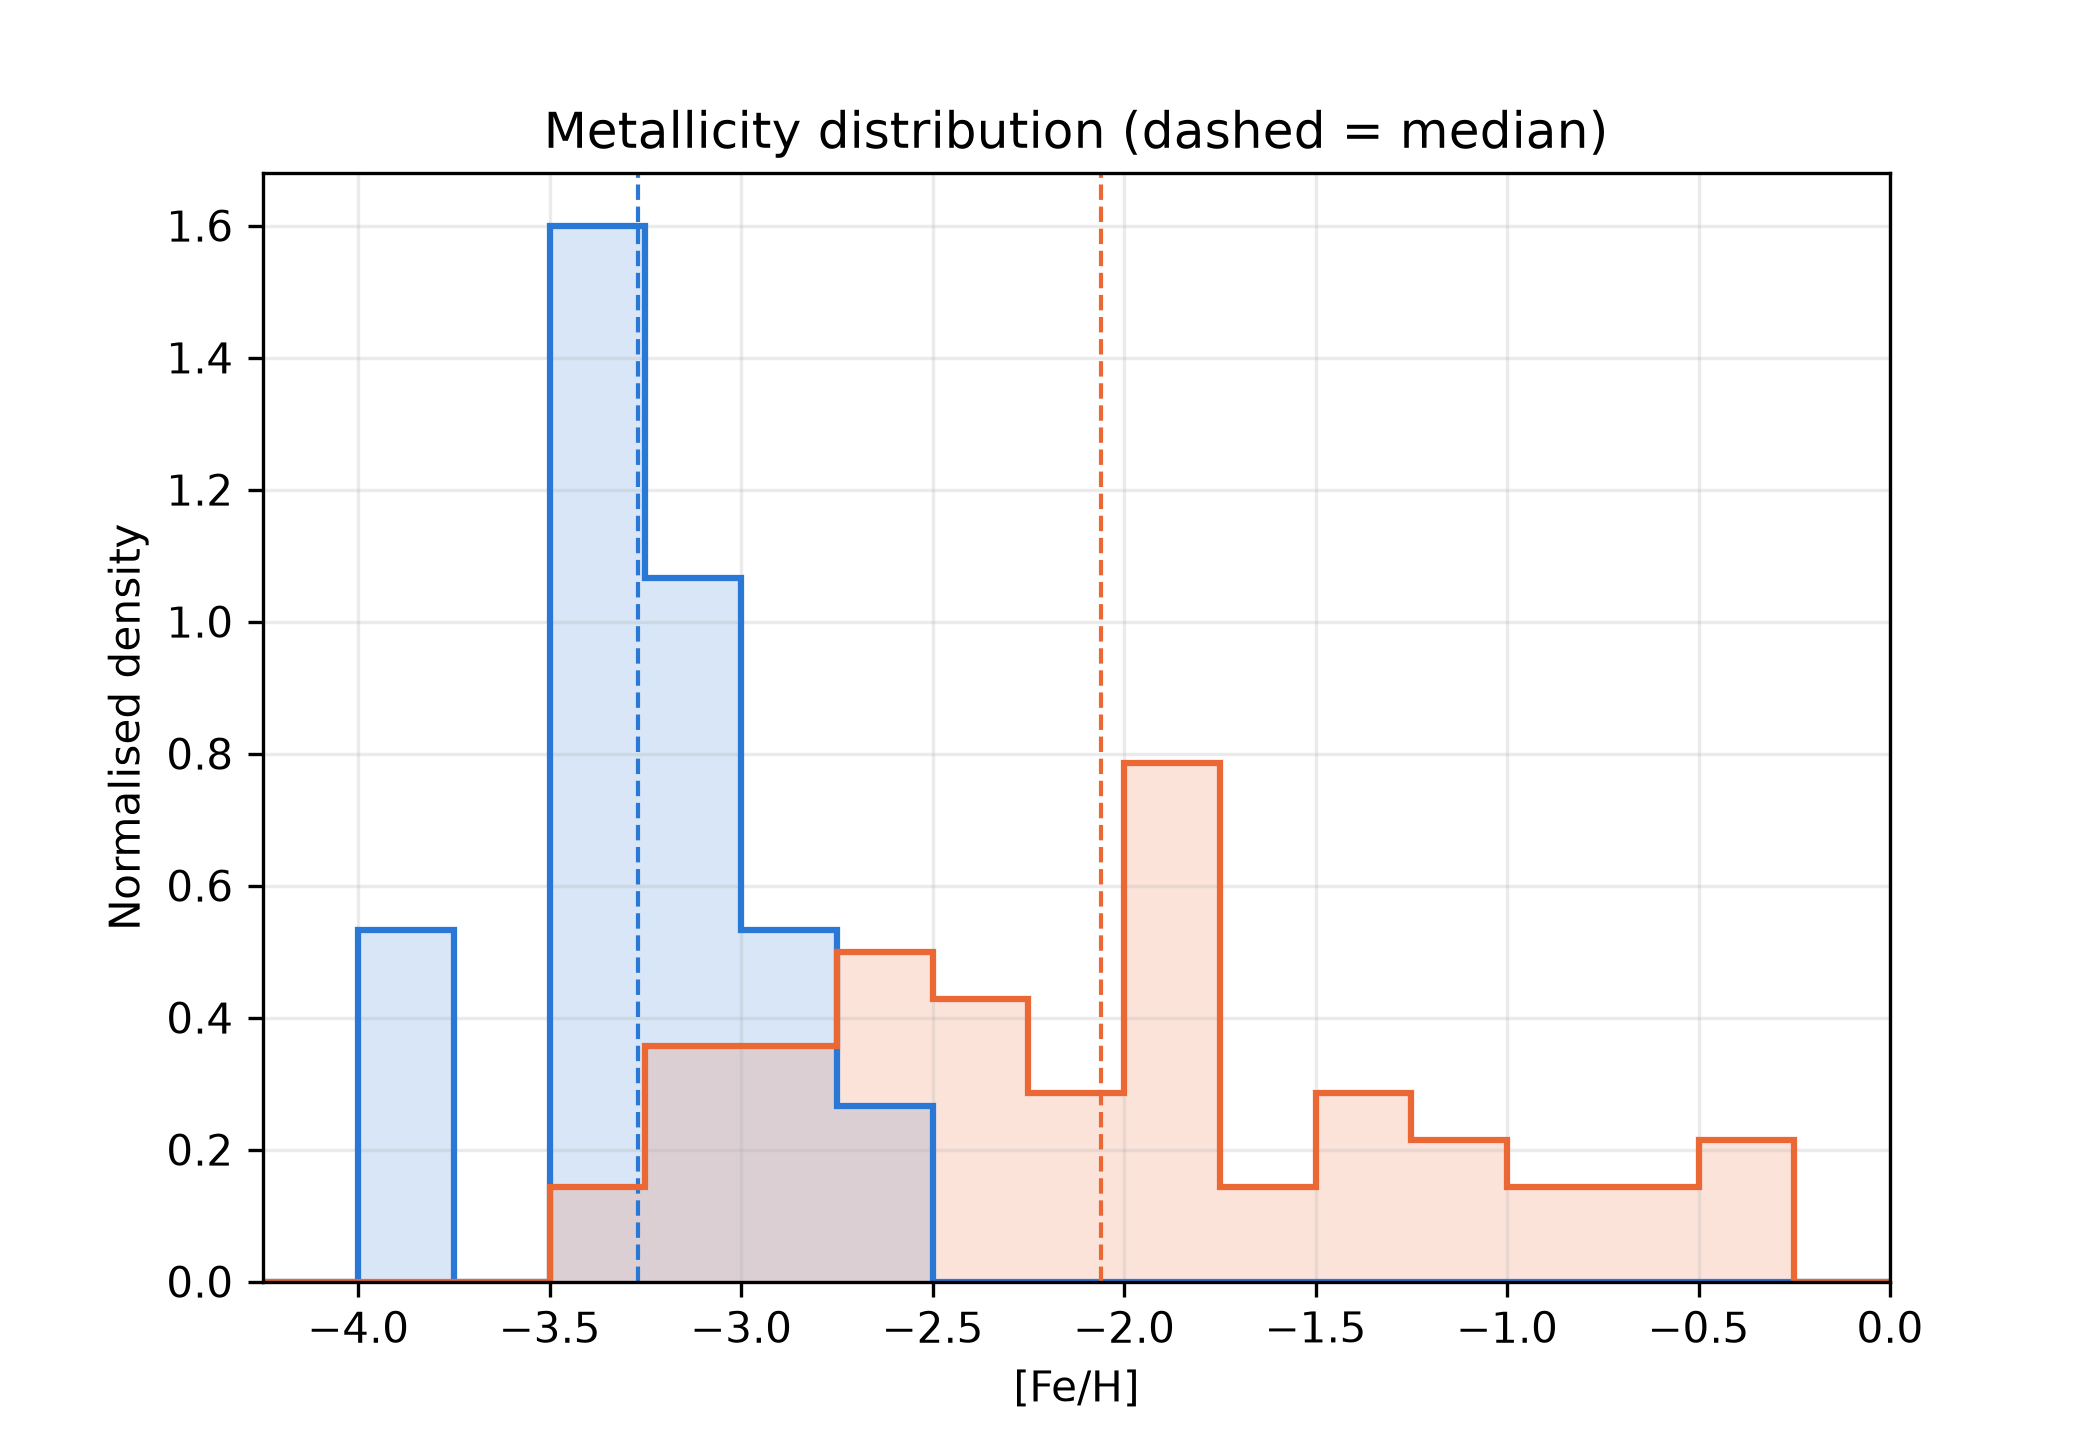
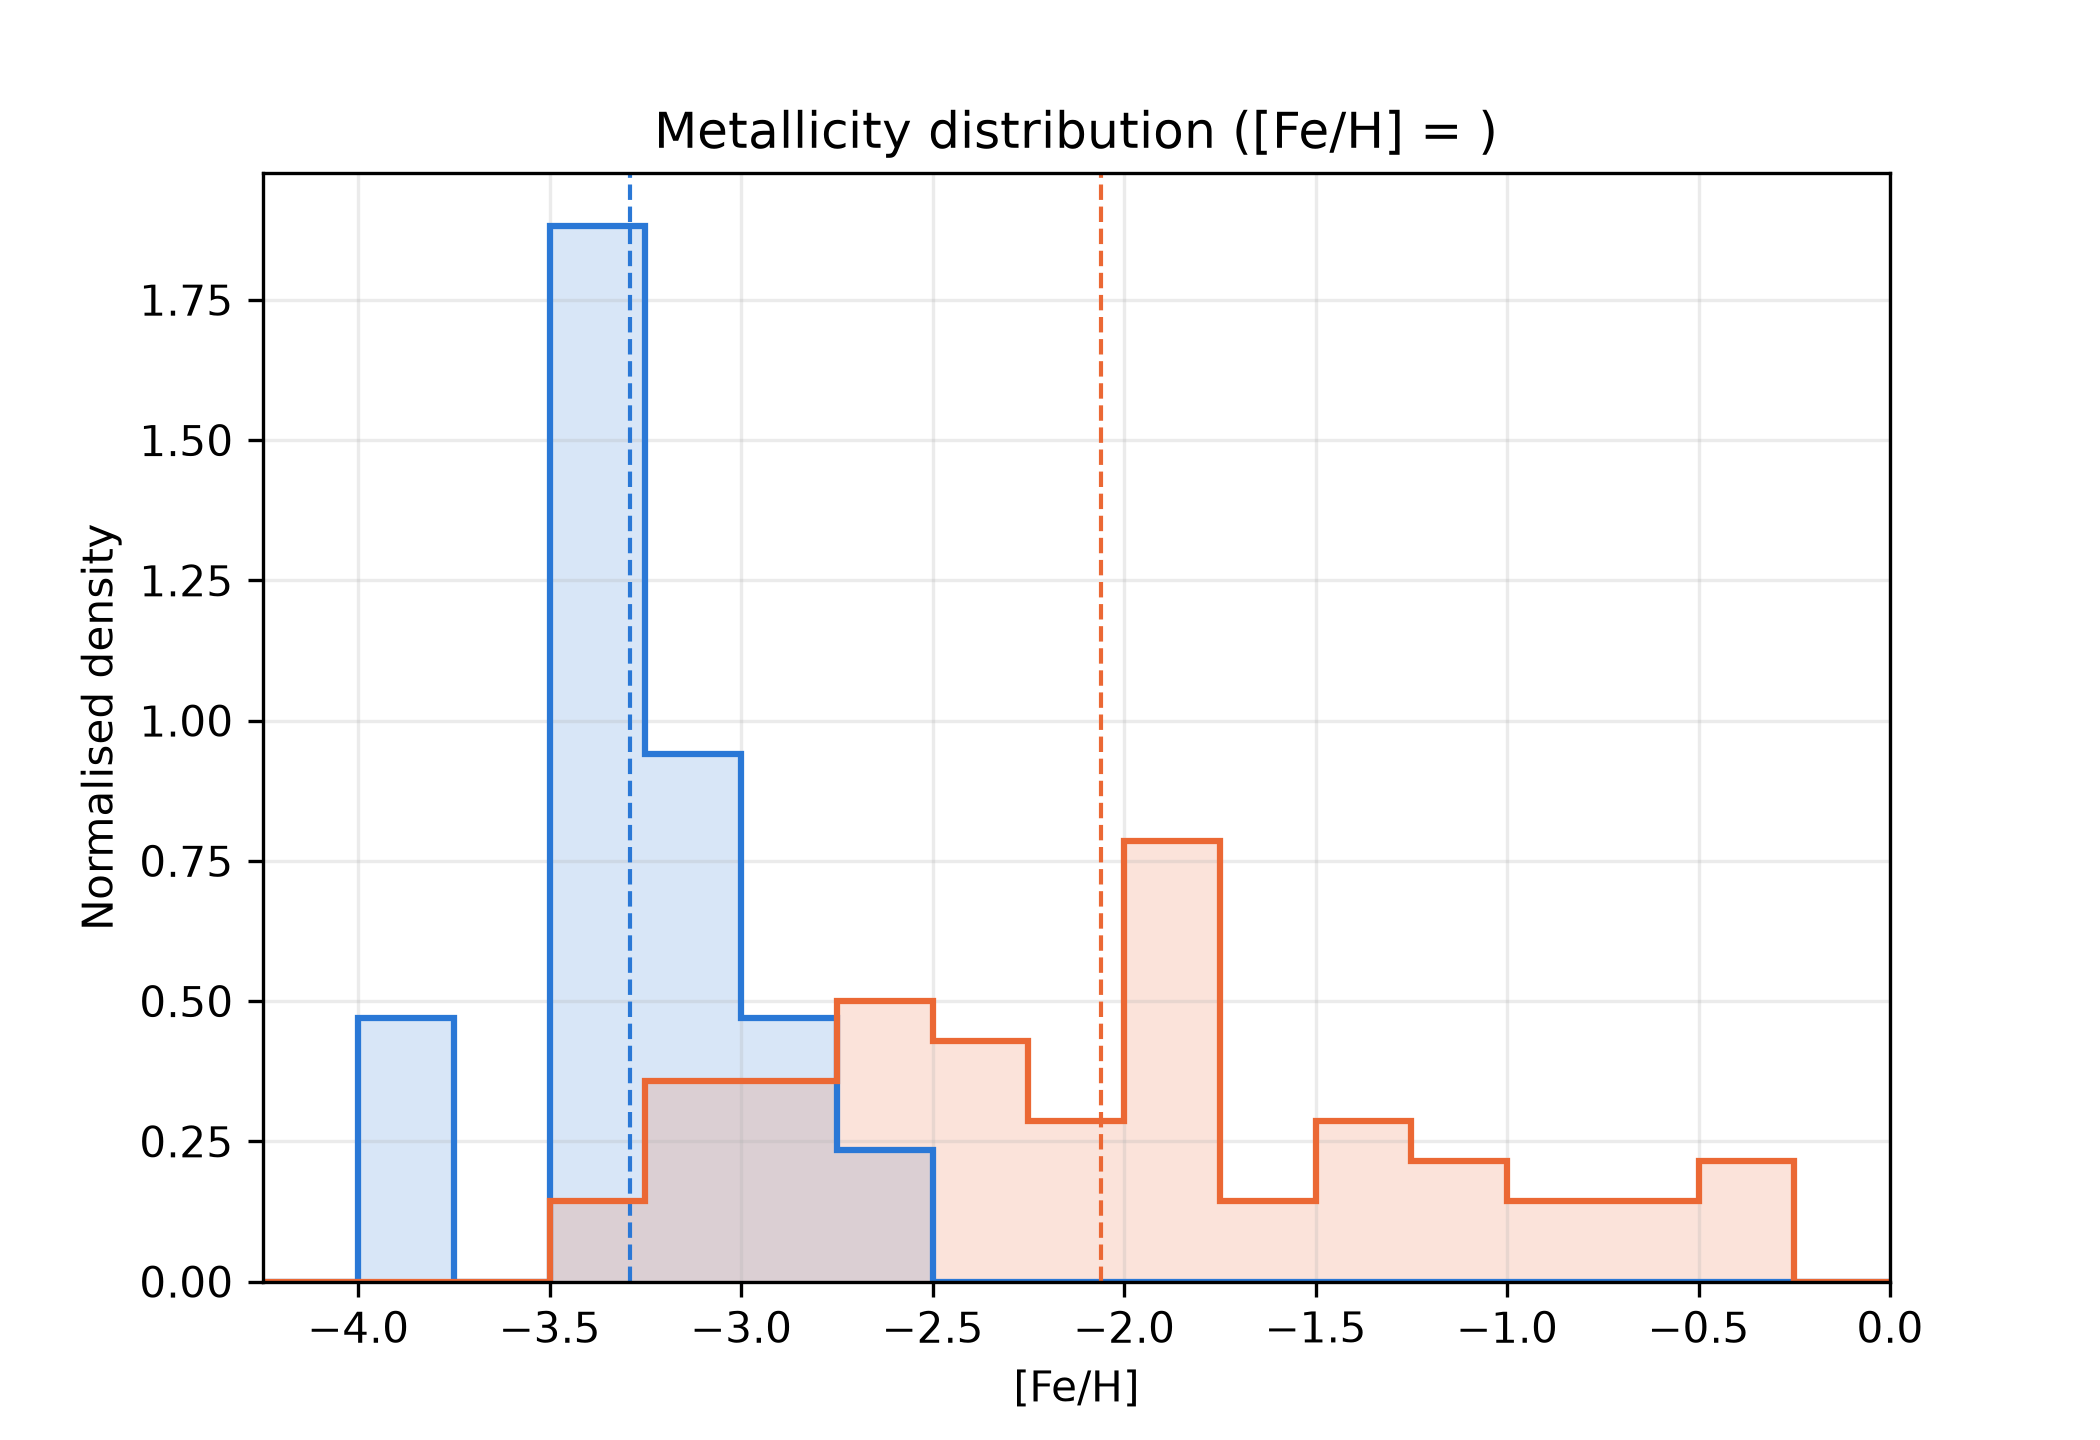
metallicity dispersion, stream width and distribution

diff --git a/Pypeline/stream_width.py b/Pypeline/stream_width.py
@@ -1,0 +1,135 @@
+import numpy as np
+import matplotlib.pyplot as plt
+import pandas as pd
+from astropy.coordinates import SkyCoord
+from astropy import units as u
+from helper import Filenames
+import gala.coordinates as gc
+
+## Read in both streams
+data = pd.read_csv(Filenames.C19_STREAM)
+df = pd.read_csv(Filenames.PHEONIX_STREAM)
+
+## Distances to turn the width from degrees into pc
+ph_dist = 17.5      # kpc, Shipp et al. 2018
+c19_dist = 20.1     # kpc, median distance of the C-19 members
+
+
+## Stream frames (same as coordinate_transform.py)
+# https://iopscience.iop.org/article/10.3847/1538-4357/aacdab
+icrsc__phoenix_coords = SkyCoord(ra = 311.2 * u.deg, dec = 14 * u.deg)
+pole = SkyCoord(ra=icrsc__phoenix_coords.icrs.ra, dec=icrsc__phoenix_coords.icrs.dec, frame='icrs')
+iscrsc_c19_coords = SkyCoord(ra = 81.45 * u.degree, dec = -6.346 * u.degree, frame = "icrs")
+
+average_ra0 = np.mean(df['ra'])
+average_ra0_c19 = np.median(data['RAICRS'])
+
+frame = gc.GreatCircleICRSFrame.from_pole_ra0(pole=pole, ra0 = average_ra0 * u.deg)
+frame2 = gc.GreatCircleICRSFrame.from_pole_ra0(pole=iscrsc_c19_coords, ra0 = average_ra0_c19 * u.deg)
+
+PH_coords = SkyCoord(ra=df['ra'], dec=df['dec'], unit='deg', frame='icrs')
+C19_coords = SkyCoord(ra=data['RAICRS'], dec=data['DEICRS'], unit='deg', frame='icrs')
+
+ph_stream = PH_coords.transform_to(frame)
+c19_stream = C19_coords.transform_to(frame2)
+
+df['phi1'] = ph_stream.phi1.wrap_at(180 * u.degree).deg
+df['phi2'] = ph_stream.phi2.deg
+data['phi1'] = c19_stream.phi1.wrap_at(180 * u.degree).deg
+data['phi2'] = c19_stream.phi2.deg
+
+
+
+## Picking the stream stars
+
+
+## Phoenix: the field stars have very different velocities, so keep stars within
+## 50 km/s of the median, fit the velocity trend, then drop anything more than
+## 3 standard deviations from the fit (repeat a few times)
+ph = df[np.abs(df['vel_calib'] - np.median(df['vel_calib'])) < 50]
+for i in range(5):
+    fit = np.polyfit(ph['phi1'], ph['vel_calib'], 1)
+    resid = ph['vel_calib'] - np.polyval(fit, ph['phi1'])
+    ph = ph[np.abs(resid) < 3 * np.std(resid)]
+
+## C-19: only the confirmed members (they have a 'note'; the stars without one aren't
+## in the member list), and only the main part of the stream (within 3 deg)
+c19 = data[data['note'].notna() & (np.abs(data['phi2']) < 3)]
+
+## For velocities only use the members with spectra (GRACES / OSIRIS / UVES)
+spec = c19['note'].str.contains('GRACES|OSIRIS|UVES')
+c19_rv = c19[spec].dropna(subset=['Vlos'])
+
+
+
+## Stream width: fit phi2 vs phi1, width = spread of stars around the fit
+
+ph_track = np.polyfit(ph['phi1'], ph['phi2'], 2)
+ph_width = np.std(ph['phi2'] - np.polyval(ph_track, ph['phi1']))
+
+c19_track = np.polyfit(c19['phi1'], c19['phi2'], 1)
+c19_width = np.std(c19['phi2'] - np.polyval(c19_track, c19['phi1']))
+
+
+
+## Velocity dispersion: fit RV vs phi1, dispersion = spread of stars around the fit
+
+ph_vfit = np.polyfit(ph['phi1'], ph['vel_calib'], 1)
+ph_disp = np.std(ph['vel_calib'] - np.polyval(ph_vfit, ph['phi1']))
+
+## C-19 velocities only cover ~9 deg and there's no real gradient, so just fit the mean (deg 0)
+c19_vfit = np.polyfit(c19_rv['phi1'], c19_rv['Vlos'], 0)
+c19_disp = np.std(c19_rv['Vlos'] - np.polyval(c19_vfit, c19_rv['phi1']))
+
+
+print("Phoenix:  N =", len(ph))
+print(f"  width = {ph_width:.3f} deg = {np.radians(ph_width) * ph_dist * 1000:.0f} pc")
+print(f"  velocity dispersion = {ph_disp:.2f} km/s")
+print("C-19:  N =", len(c19), " (with velocities:", len(c19_rv), ")")
+print(f"  width = {c19_width:.3f} deg = {np.radians(c19_width) * c19_dist * 1000:.0f} pc  (d = {c19_dist:.1f} kpc)")
+print(f"  velocity dispersion = {c19_disp:.2f} km/s")
+
+
+
+## Plotting shennigans
+
+c19_color = '#2a78d6'
+ph_color = '#eb6834'
+
+fig = plt.figure(figsize=(11, 7), constrained_layout=True)
+ax0 = fig.add_subplot(221)
+ax1 = fig.add_subplot(222)
+ax2 = fig.add_subplot(223)
+ax3 = fig.add_subplot(224)
+
+x = np.linspace(ph['phi1'].min(), ph['phi1'].max(), 200)
+ax0.scatter(ph['phi1'], ph['phi2'], s=20, color=ph_color)
+ax0.plot(x, np.polyval(ph_track, x), 'k--')
+ax0.set_ylabel(r'$\phi_2$ [deg]')
+ax0.set_title(f'Phoenix width = {ph_width:.2f} deg')
+ax0.grid(alpha=0.25)
+
+ax1.scatter(ph['phi1'], ph['vel_calib'], s=20, color=ph_color)
+ax1.plot(x, np.polyval(ph_vfit, x), 'k--')
+ax1.set_ylabel(r'RV [km s$^{-1}$]')
+ax1.set_title(f'Phoenix velocity dispersion = {ph_disp:.1f} km/s')
+ax1.grid(alpha=0.25)
+
+x = np.linspace(c19['phi1'].min(), c19['phi1'].max(), 200)
+ax2.scatter(c19['phi1'], c19['phi2'], s=20, color=c19_color)
+ax2.plot(x, np.polyval(c19_track, x), 'k--')
+ax2.set_xlabel(r'$\phi_1$ [deg]')
+ax2.set_ylabel(r'$\phi_2$ [deg]')
+ax2.set_title(f'C-19 width = {c19_width:.2f} deg')
+ax2.grid(alpha=0.25)
+
+ax3.scatter(c19_rv['phi1'], c19_rv['Vlos'], s=20, color=c19_color)
+ax3.plot(x, np.polyval(c19_vfit, x), 'k--')
+ax3.set_xlabel(r'$\phi_1$ [deg]')
+ax3.set_ylabel(r'RV [km s$^{-1}$]')
+ax3.set_title(f'C-19 velocity dispersion = {c19_disp:.1f} km/s')
+ax3.grid(alpha=0.25)
+
+plt.savefig('Output/stream_width_dispersion.png', dpi=300)
+
+plt.show()

diff --git a/Pypeline/metallicity_distribution.py b/Pypeline/metallicity_distribution.py
@@ -24,7 +24,8 @@ def get_data():
 data = pd.read_csv(Filenames.C19_STREAM)
 df = get_data()
 
-## Metallicity 
+## Metallicity distribution for both streams
+## Removing incomplete data (NaN) from dataset to remove errors
 data = data.dropna(subset=['[Fe/H]', 'e_[Fe/H]'])
 df = df.dropna(subset=['feh50', 'feh_calib_std'])
 
@@ -35,8 +36,7 @@ c19_err = data['e_[Fe/H]']
 ph_feh = df['feh50']
 ph_err = df['feh_calib_std']
 
-print("C19 median [Fe/H]:", np.median(c19_feh), "N =", len(c19_feh))
-print("Phoenix median [Fe/H]:", np.median(ph_feh), "N =", len(ph_feh))
+
 
 
 
@@ -60,12 +60,13 @@ plt.hist(ph_feh, bins=bins, density=True, histtype='stepfilled', color=ph_color,
 plt.hist(ph_feh, bins=bins, density=True, histtype='step', color=ph_color, linewidth=1.5)
 plt.axvline(np.median(ph_feh), color=ph_color, linestyle='--', linewidth=1)
 
-
+print("Phoenix median [Fe/H]:", np.median(ph_feh))
+print("C-19 median [Fe/H]:", np.median(c19_feh))
 
 plt.xlim(-4.25, 0)
 plt.xlabel('[Fe/H]')
 plt.ylabel('Normalised density')
-plt.title('Metallicity distribution (dashed = median)')
+plt.title(f'Metallicity distribution ([Fe/H] = )')
 plt.legend(frameon=False)
 plt.grid(alpha=0.25)
 

diff --git a/Pypeline/metallicity_dispersion.py b/Pypeline/metallicity_dispersion.py
@@ -1,0 +1,34 @@
+import numpy as np
+import pandas as pd
+from helper import Filenames
+
+## Read in both streams
+data = pd.read_csv("Data_clean/c19_pristine_all_unique (3).csv")
+df = pd.read_csv("Data_clean/phoenix_stream_clean2.csv")
+
+## Metallicity and errors (drop stars with no [Fe/H])
+data = data.dropna(subset=['[Fe/H]', 'e_[Fe/H]'])
+df = df.dropna(subset=['feh50', 'feh_calib_std'])
+
+c19_feh = data['[Fe/H]'].values
+c19_err = data['e_[Fe/H]'].values
+
+ph_feh = df['feh50'].values
+ph_err = df['feh_calib_std'].values
+
+
+## observed spread^2 = real spread^2 + error^2
+## so real spread = sqrt(observed spread^2 - error^2)
+def real_spread(feh, err):
+    observed = np.std(feh)
+    error = np.sqrt(np.mean(err**2))
+    diff = observed**2 - error**2  
+
+    return np.sqrt(diff)
+
+
+for name, feh, err in [('C-19', c19_feh, c19_err), ('Phoenix', ph_feh, ph_err)]:
+    print(f"{name}:  N = {len(feh)}")
+    print(f"  observed spread = {np.std(feh):.5f} dex")
+    print(f"  typical error   = {np.sqrt(np.mean(err**2)):.5f} dex")
+    print(f"  real spread     = {real_spread(feh, err):.5f} dex")

diff --git a/Pypeline/phoenix_import.py b/Pypeline/phoenix_import.py
@@ -9,12 +9,13 @@ from helper import Filenames
 filepath = 'DATA_raw/s5_pdr1.fits'
 filepath2 = 'DATA_clean/phoenix_stream_clean2.csv'
 
-#File to numpy shennigans 
+# Converts Phoenix Stream raw Fits data into csv for later use in cleaner format
 
 def get_data():
     data = fits.getdata(filepath)
     df = pd.DataFrame(data)
-
+    # Masking criteria for Phoenix stream relevant to the study
+    # Searches for all entries named by "phoenix", primary = 1, and priority = 9 which are high stream canditinates. 
     df = df.astype({'field': str, 'feh50': float, 'vel50': float})
     df = df[df['field'].str.contains("phoenix", case=0)]
 

diff --git a/Pypeline/helper.py b/Pypeline/helper.py
@@ -1,3 +1,3 @@
 class Filenames:
-    C19_STREAM = './Data_clean/c19_pristine_all_unique.csv'
+    C19_STREAM = './Data_clean/c19_pristine_all_unique (3).csv'
     PHEONIX_STREAM = './Data_clean/phoenix_stream_clean2.csv'
